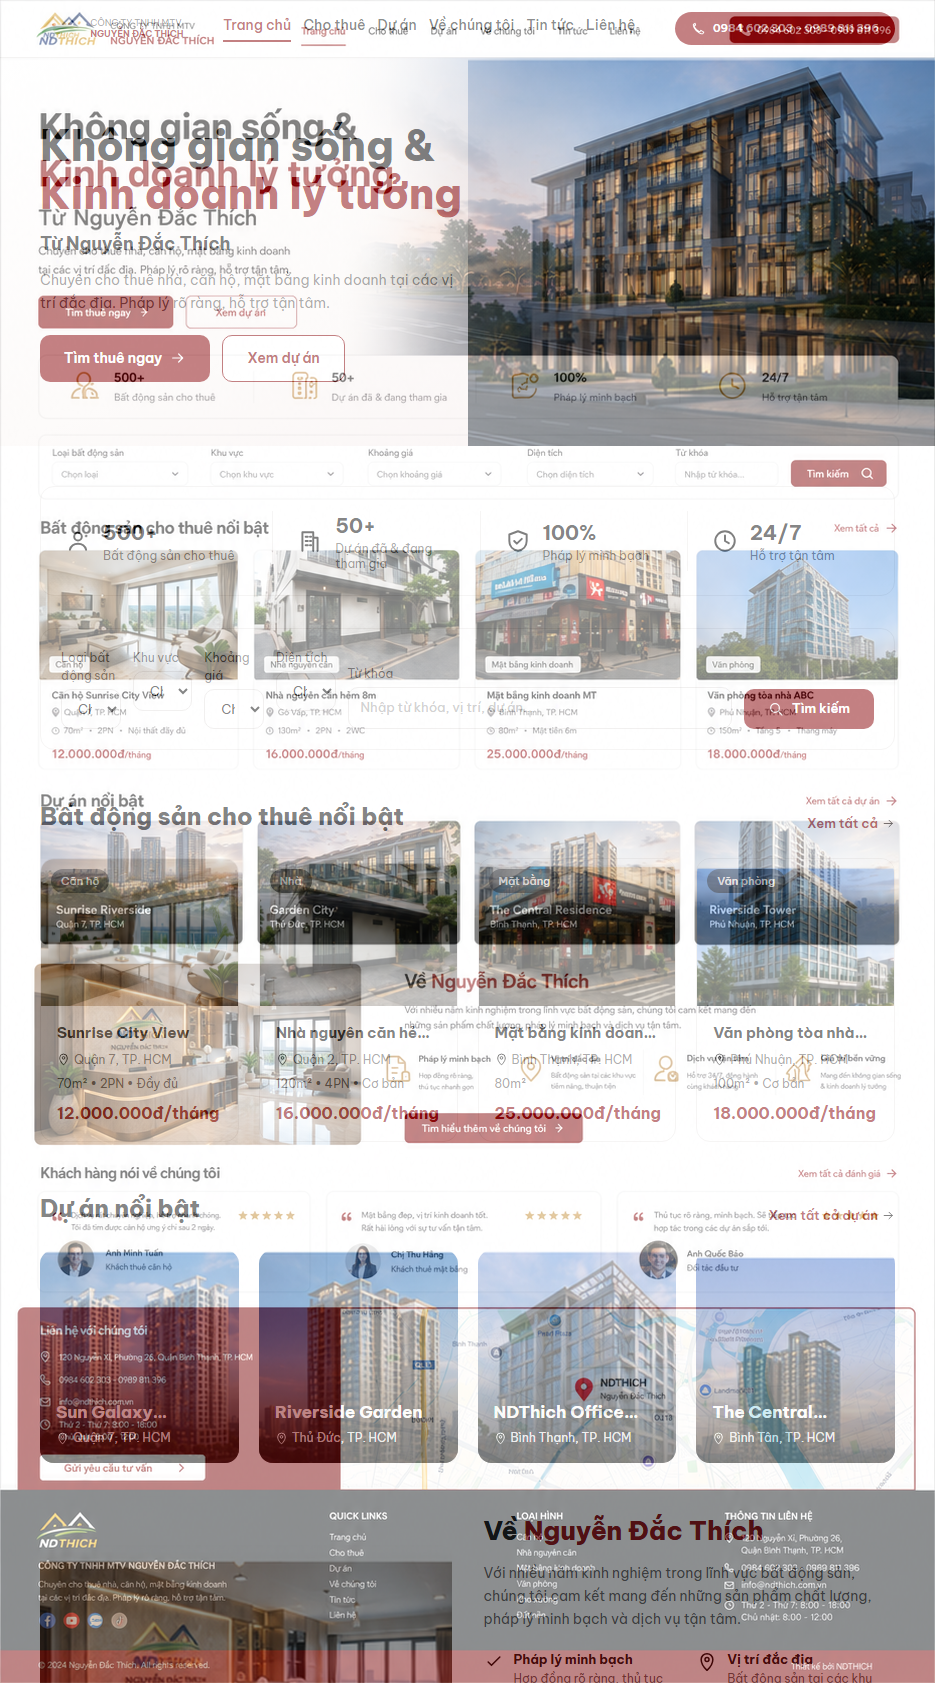
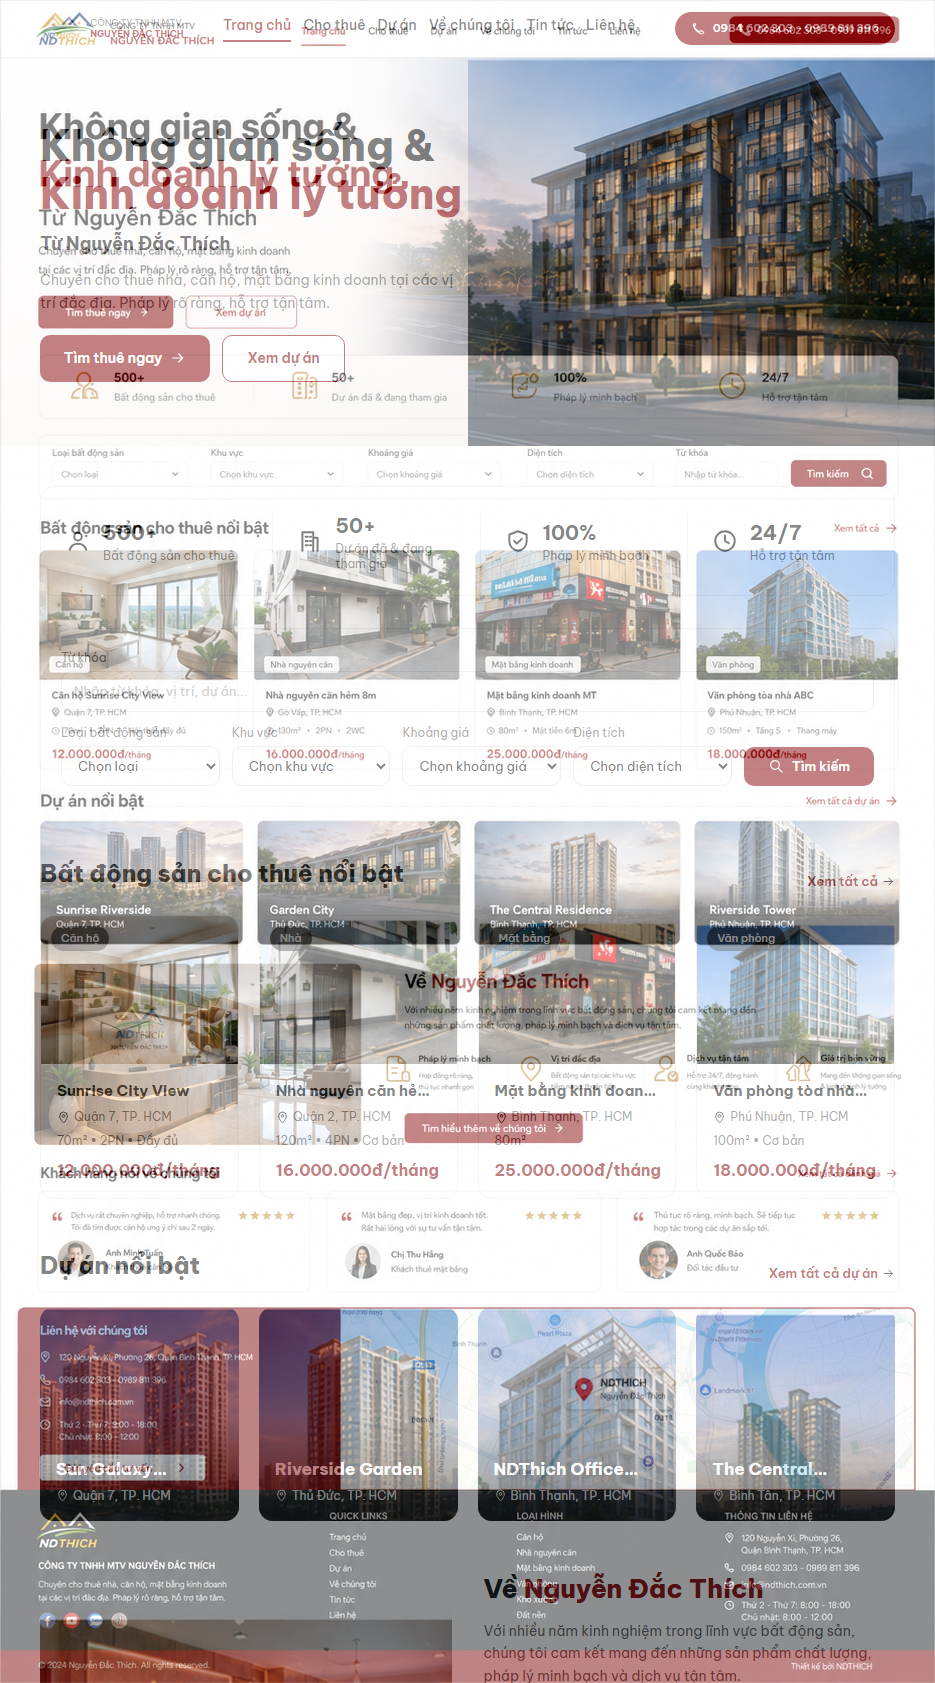
fix(pha3-v2): reorder home search bar on WEB — keyword on its own row
Two follow-up fixes from a live local-dev check after round 2 landed:

1. HomeSearchBar2's 4 selects were all equal flex-1 siblings competing
   with keyword (flex-1.4) and the submit button in one row; at moderate
   desktop widths (~1000-1200px, a normal laptop window rather than the
   935px canonical capture) they were crushed narrower than their own
   placeholder text ("Chọn khoảng giá" etc rendered as "Chọn k...").

2. Per explicit user direction: WEB now puts "Từ khóa" alone on its own
   full-width row on top, with the 4 selects + submit button wrapping
   together onto the row below — done via CSS `order` (Từ khóa order-1
   w-full forces the wrap point, selects+button order-2) so the desktop
   view reorders without touching mobile's DOM order/layout at all.
   Verified unchanged at a 390px mobile viewport.

Recaptured / (only route HomeSearchBar2 renders on) and refreshed the
round-2 WEB report/board; MOBILE numbers are untouched by this fix.

diff --git a/components/public-v2/HomeSearchBar2/index.tsx b/components/public-v2/HomeSearchBar2/index.tsx
@@ -38,10 +38,15 @@ export function HomeSearchBar2({ locationOptions, propertyTypeOptions }: HomeSea
   }
 
   return (
-    <div className="rounded-lg border border-[#EDEBEA] bg-white p-4 min-[900px]:flex min-[900px]:items-end min-[900px]:gap-3 min-[900px]:p-5">
+    <div className="rounded-lg border border-[#EDEBEA] bg-white p-4 min-[900px]:flex min-[900px]:flex-wrap min-[900px]:items-end min-[900px]:gap-3 min-[900px]:p-5">
       <p className="mb-3 text-[15px] font-bold text-[#0C0D0D] min-[900px]:hidden">Tìm kiếm bất động sản</p>
-      <div className="grid grid-cols-2 gap-3 min-[900px]:flex min-[900px]:flex-1 min-[900px]:gap-3">
-        <label className="min-[900px]:flex-1">
+      {/* Desktop-only reorder via CSS order (mobile keeps the original DOM
+          order/layout untouched): Từ khóa is order-1 + full width, which
+          forces it alone onto its own row in the flex-wrap container; the
+          4 selects + button are order-2 and wrap together onto the row
+          below. min-w keeps each select's placeholder text from clipping. */}
+      <div className="grid grid-cols-2 gap-3 min-[900px]:order-2 min-[900px]:flex min-[900px]:flex-1 min-[900px]:flex-wrap min-[900px]:gap-3">
+        <label className="min-[900px]:min-w-[130px] min-[900px]:flex-1">
           <span className="block text-[12px] text-[#5F5D5D]">Loại bất động sản</span>
           <select
             className={SELECT_CLASS}
@@ -56,7 +61,7 @@ export function HomeSearchBar2({ locationOptions, propertyTypeOptions }: HomeSea
             ))}
           </select>
         </label>
-        <label className="min-[900px]:flex-1">
+        <label className="min-[900px]:min-w-[130px] min-[900px]:flex-1">
           <span className="block text-[12px] text-[#5F5D5D]">Khu vực</span>
           <select className={SELECT_CLASS} value={state.location} onChange={(e) => setState((s) => ({ ...s, location: e.target.value }))}>
             <option value="">Chọn khu vực</option>
@@ -67,7 +72,7 @@ export function HomeSearchBar2({ locationOptions, propertyTypeOptions }: HomeSea
             ))}
           </select>
         </label>
-        <label className="min-[900px]:flex-1">
+        <label className="min-[900px]:min-w-[130px] min-[900px]:flex-1">
           <span className="block text-[12px] text-[#5F5D5D]">Khoảng giá</span>
           <select className={SELECT_CLASS} value={state.priceRange} onChange={(e) => setState((s) => ({ ...s, priceRange: e.target.value }))}>
             <option value="">Chọn khoảng giá</option>
@@ -78,7 +83,7 @@ export function HomeSearchBar2({ locationOptions, propertyTypeOptions }: HomeSea
             ))}
           </select>
         </label>
-        <label className="min-[900px]:flex-1">
+        <label className="min-[900px]:min-w-[130px] min-[900px]:flex-1">
           <span className="block text-[12px] text-[#5F5D5D]">Diện tích</span>
           <select className={SELECT_CLASS} value={state.areaRange} onChange={(e) => setState((s) => ({ ...s, areaRange: e.target.value }))}>
             <option value="">Chọn diện tích</option>
@@ -90,7 +95,7 @@ export function HomeSearchBar2({ locationOptions, propertyTypeOptions }: HomeSea
           </select>
         </label>
       </div>
-      <label className="mt-3 block min-[900px]:mt-0 min-[900px]:flex-[1.4]">
+      <label className="mt-3 block min-[900px]:order-1 min-[900px]:mt-0 min-[900px]:w-full">
         <span className="block text-[12px] text-[#5F5D5D]">Từ khóa</span>
         <input
           type="search"
@@ -103,7 +108,7 @@ export function HomeSearchBar2({ locationOptions, propertyTypeOptions }: HomeSea
       <button
         type="button"
         onClick={handleSearch}
-        className="mt-3 flex w-full items-center justify-center gap-2 rounded-md bg-[#880206] px-6 py-[10px] text-[13px] font-semibold text-white hover:bg-[#750F0D] min-[900px]:mt-0 min-[900px]:w-auto"
+        className="mt-3 flex w-full items-center justify-center gap-2 rounded-md bg-[#880206] px-6 py-[10px] text-[13px] font-semibold text-white hover:bg-[#750F0D] min-[900px]:order-2 min-[900px]:mt-0 min-[900px]:w-auto"
       >
         <Icon name="search" size={16} className="invert" /> Tìm kiếm
       </button>
